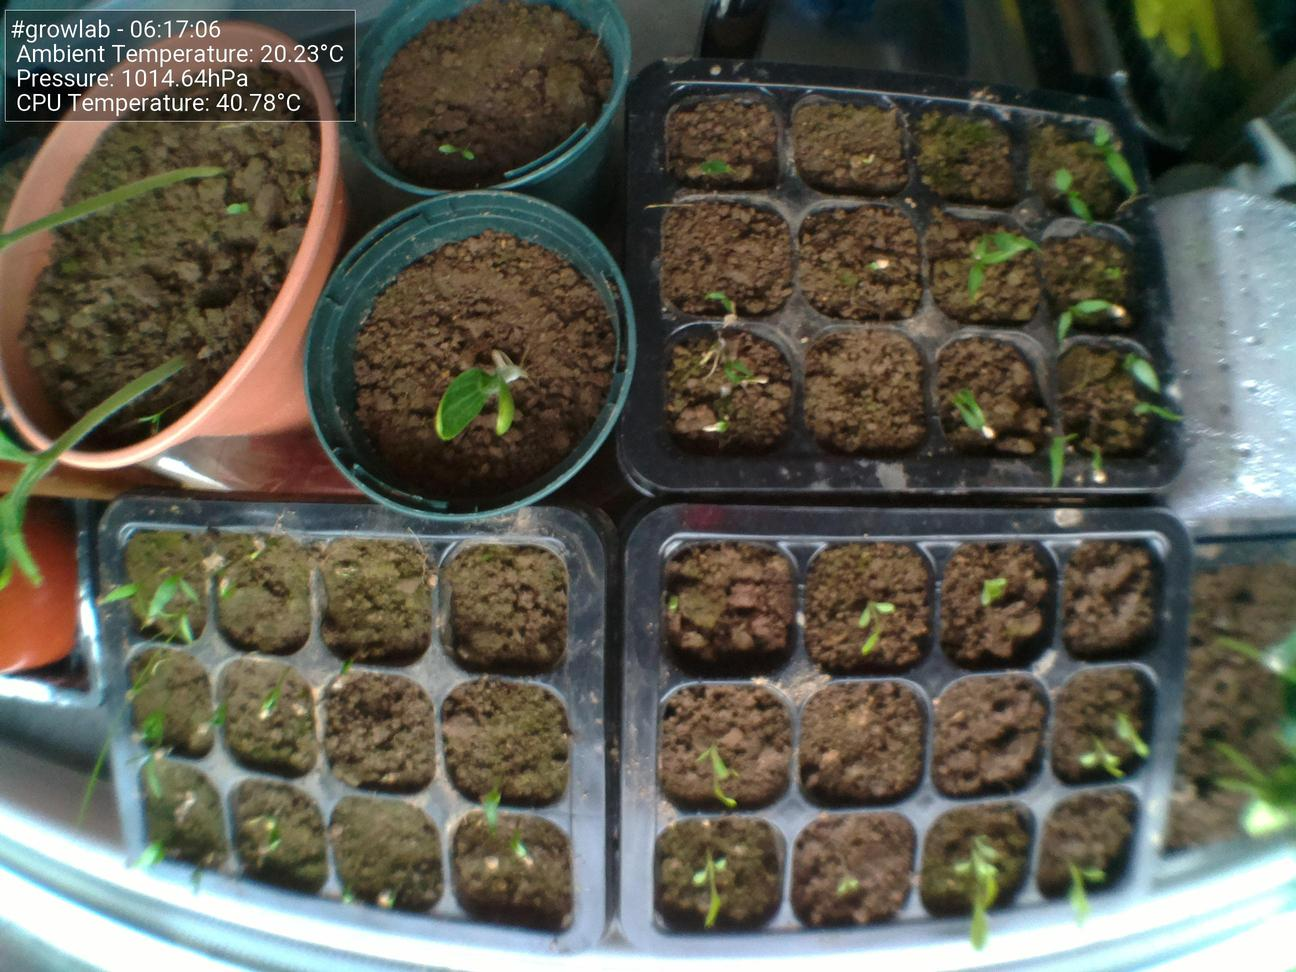
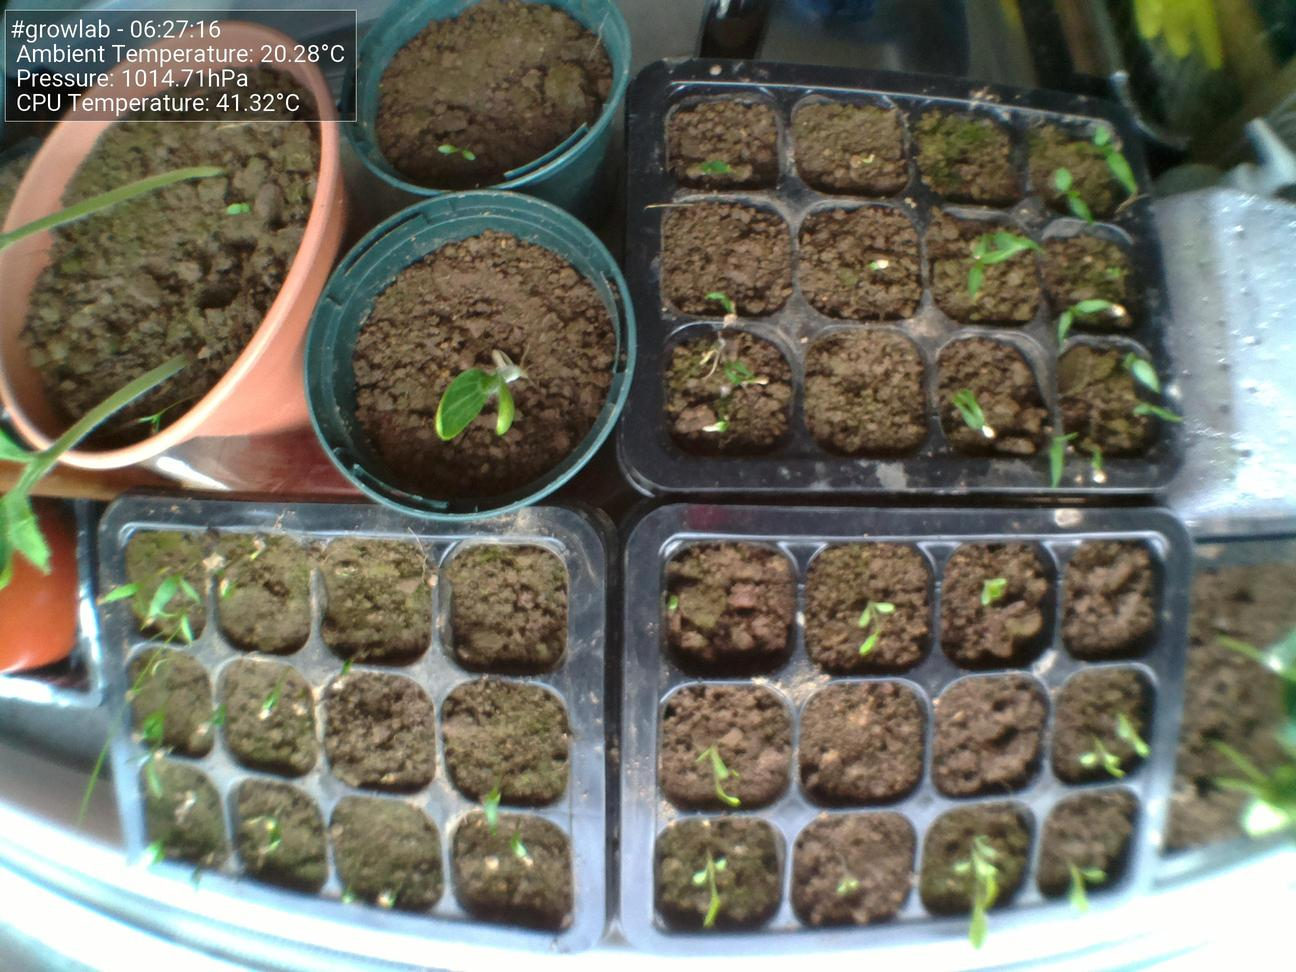
Update images at Thu  5 May 06:27:20 BST 2022

diff --git a/docs/index.html b/docs/index.html
@@ -44,15 +44,15 @@
                         <tbody>
                             <tr>
                                 <td>Time</td>
-                                <td>06:17:06</td>
+                                <td>06:27:16</td>
                             </tr>
                             <tr>
                                 <td>CPU Temp</td>
-                                <td>40.78°C</td>
+                                <td>41.32°C</td>
                             </tr>
                             <tr>
                                 <td>Ambient Temperature</td>
-                                <td>20.23°C</td>
+                                <td>20.28°C</td>
                             </tr>
                             <tr>
                                 <td>Humidity</td>
@@ -60,7 +60,7 @@
                             </tr>
                             <tr>
                                 <td>Pressure</td>
-                                <td>1014.64hPa</td>
+                                <td>1014.71hPa</td>
                             </tr>
                         </tbody>
                     </table>
@@ -68,7 +68,7 @@
 
                 <h5>Latest image</h5>
                 <div style="width: 85%;">
-                            <img class="figure-img img-fluid rounded" src="./preview.jpg?uid=1651727830.7846565">
+                            <img class="figure-img img-fluid rounded" src="./preview.jpg?uid=1651728440.5512114">
                 </div>
             </div>
         </div>
